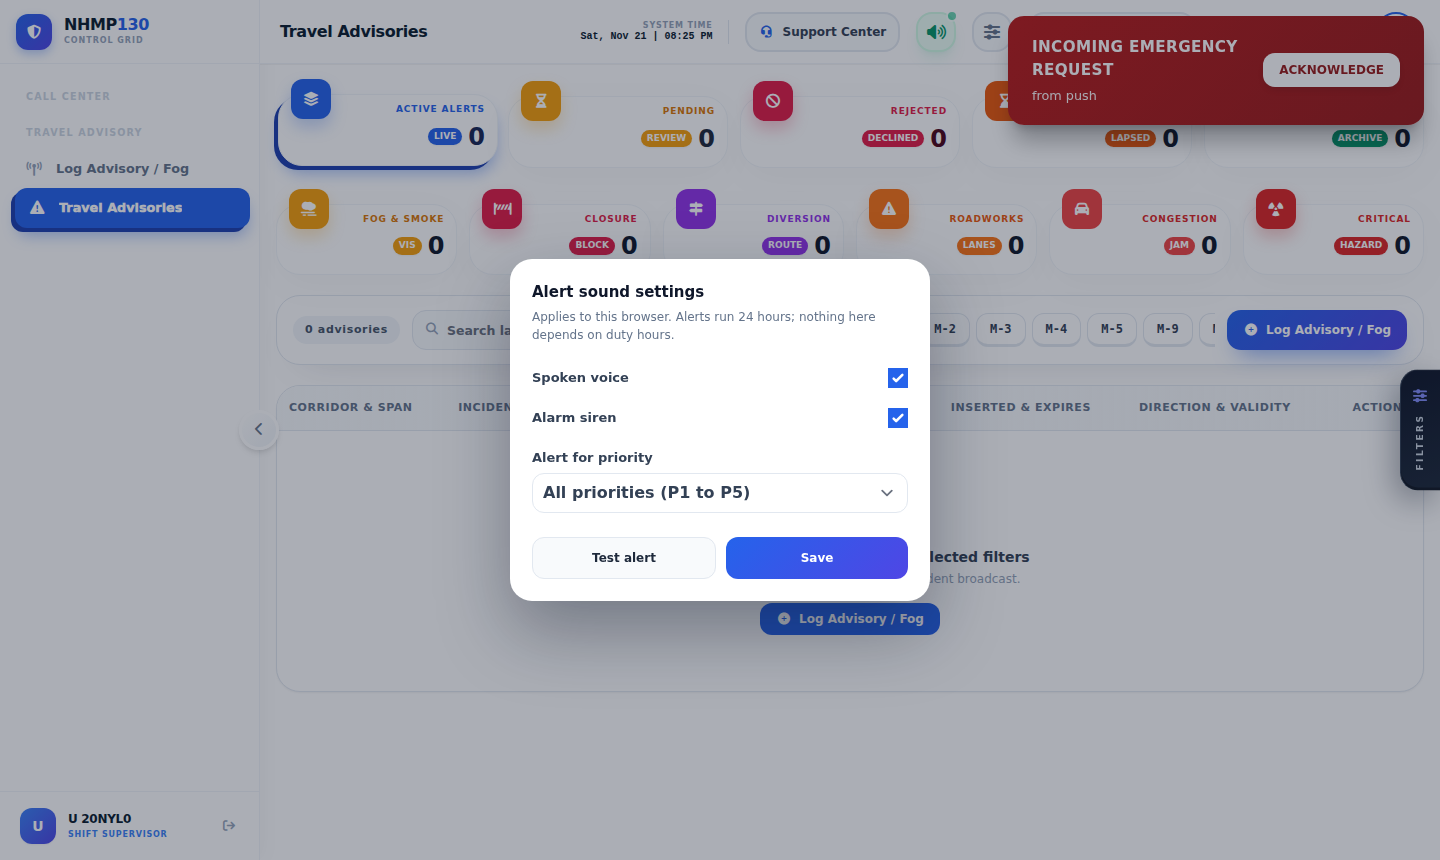
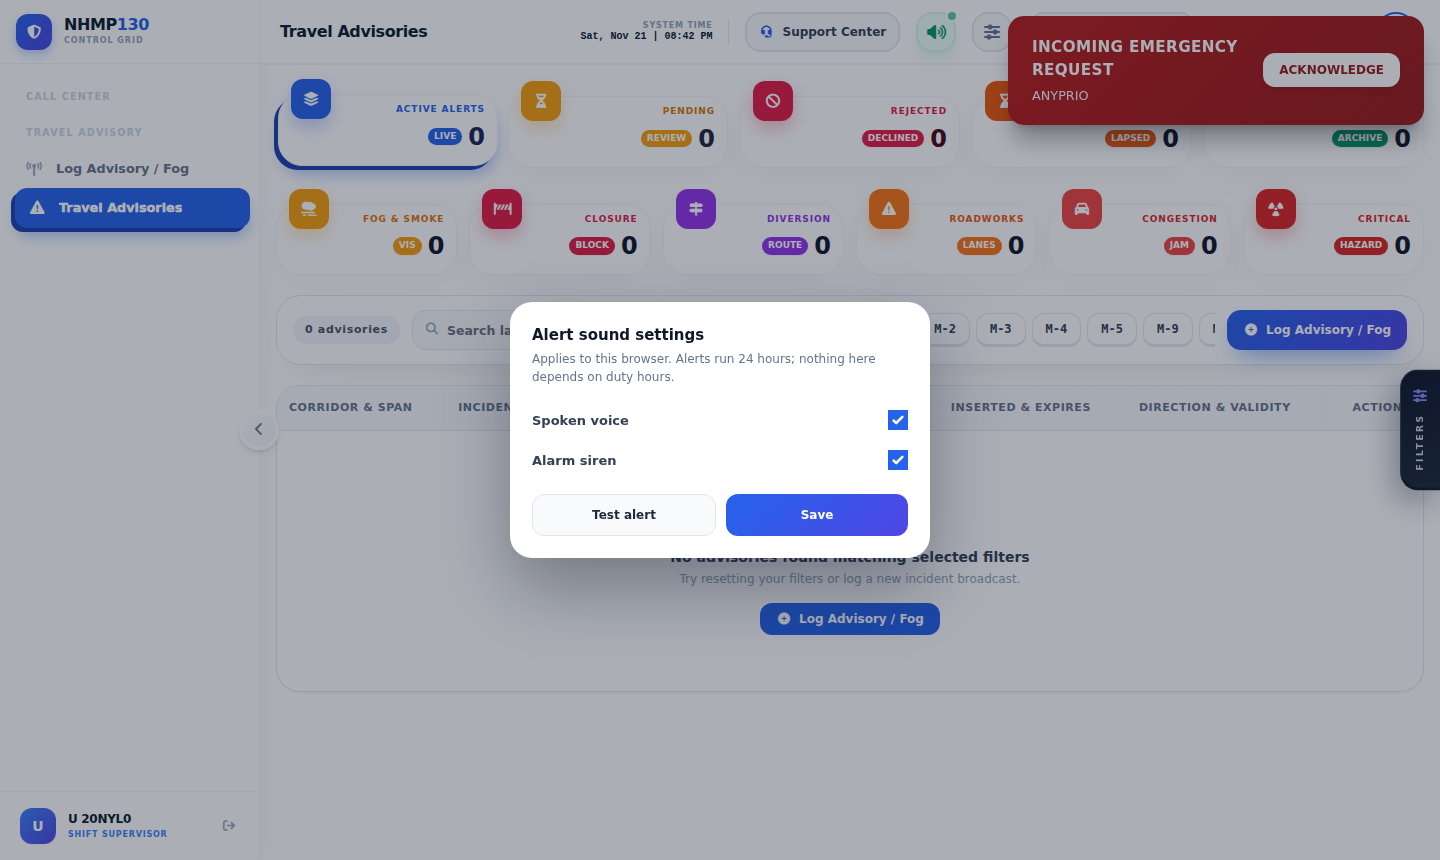
feat(voice): remove priority setting; alarm and voice for every alert, only on/off toggles and test button

diff --git a/public/js/voice-alert.js b/public/js/voice-alert.js
@@ -44,8 +44,7 @@
     }
 
     function getMinPriorityThreshold() {
-        var val = localStorage.getItem(PREF_KEY_MIN_PRIORITY);
-        return val ? parseInt(val, 10) : 5; // Default: P1-P5
+        return 5; // Priority filtering removed (owner decision): every alert sounds
     }
 
     function playTone(freq1, freq2, durationSec) {
@@ -244,7 +243,6 @@
         setPreferences: function (voice, alarm, minPriority) {
             if (typeof voice === 'boolean') localStorage.setItem(PREF_KEY_VOICE, voice ? 'true' : 'false');
             if (typeof alarm === 'boolean') localStorage.setItem(PREF_KEY_ALARM, alarm ? 'true' : 'false');
-            if (minPriority) localStorage.setItem(PREF_KEY_MIN_PRIORITY, minPriority.toString());
         },
 
         getPreferences: function () {
@@ -269,13 +267,11 @@
           + '<div style="font-size:12px;color:#64748b;margin-bottom:14px">Applies to this browser. Alerts run 24 hours; nothing here depends on duty hours.</div>'
           + '<label style="display:flex;justify-content:space-between;align-items:center;padding:10px 0;font-weight:700;font-size:13px;color:#334155">Spoken voice<input id="va-voice" type="checkbox" style="width:20px;height:20px"></label>'
           + '<label style="display:flex;justify-content:space-between;align-items:center;padding:10px 0;font-weight:700;font-size:13px;color:#334155">Alarm siren<input id="va-alarm" type="checkbox" style="width:20px;height:20px"></label>'
-          + '<label style="display:block;padding:10px 0;font-weight:700;font-size:13px;color:#334155">Alert for priority<select id="va-min" style="width:100%;margin-top:6px;height:40px;border:1px solid #e2e8f0;border-radius:12px;padding:0 10px;font-weight:700"><option value="5">All priorities (P1 to P5)</option><option value="3">P1 to P3 only</option><option value="2">P1 and P2 only</option><option value="1">P1 only</option></select></label>'
           + '<div style="display:flex;gap:10px;margin-top:14px"><button id="va-test" type="button" style="flex:1;height:42px;border-radius:12px;border:1px solid #e2e8f0;background:#f8fafc;font-weight:800;font-size:12px;cursor:pointer">Test alert</button><button id="va-save" type="button" style="flex:1;height:42px;border-radius:12px;border:0;background:linear-gradient(135deg,#2563eb,#4f46e5);color:#fff;font-weight:800;font-size:12px;cursor:pointer">Save</button></div></div>';
         document.body.appendChild(wrap);
         wrap.querySelector('#va-voice').checked = p.voice;
         wrap.querySelector('#va-alarm').checked = p.alarm;
-        wrap.querySelector('#va-min').value = String(p.minPriority);
-        function save() { window.NHMPVoiceAlert.setPreferences(wrap.querySelector('#va-voice').checked, wrap.querySelector('#va-alarm').checked, parseInt(wrap.querySelector('#va-min').value, 10)); }
+        function save() { window.NHMPVoiceAlert.setPreferences(wrap.querySelector('#va-voice').checked, wrap.querySelector('#va-alarm').checked); }
         wrap.querySelector('#va-test').onclick = function () { save(); window.NHMPVoiceAlert.unlockAudio(); window.NHMPVoiceAlert.triggerAlert({ title: 'Test alert', speak_text: 'This is a test of the N H M P one thirty alert system.', priority: 1 }); };
         wrap.querySelector('#va-save').onclick = function () { save(); window.NHMPVoiceAlert.stopAlarm(); wrap.remove(); if (window.showSuccess) window.showSuccess('Alert settings saved.', 'Alert Settings'); };
         wrap.addEventListener('click', function (e) { if (e.target === wrap) { wrap.remove(); } });
